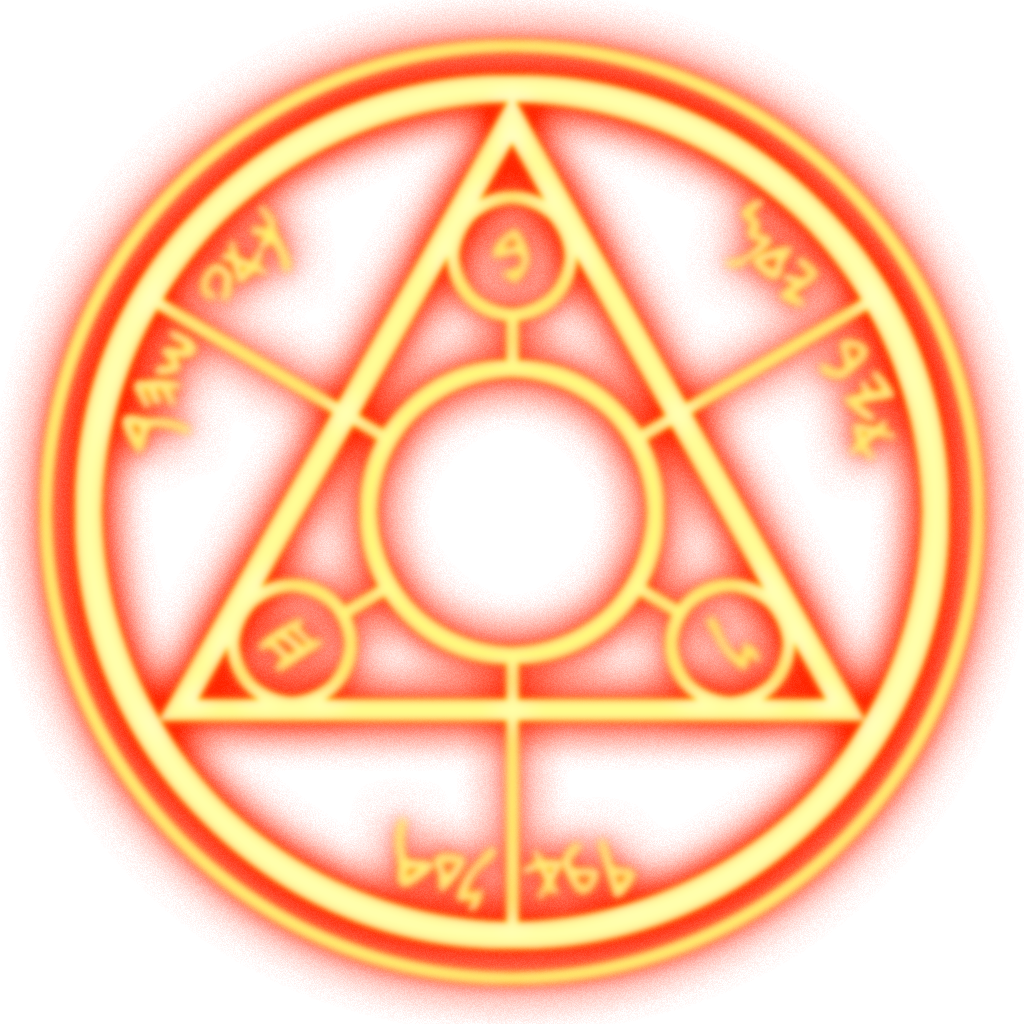
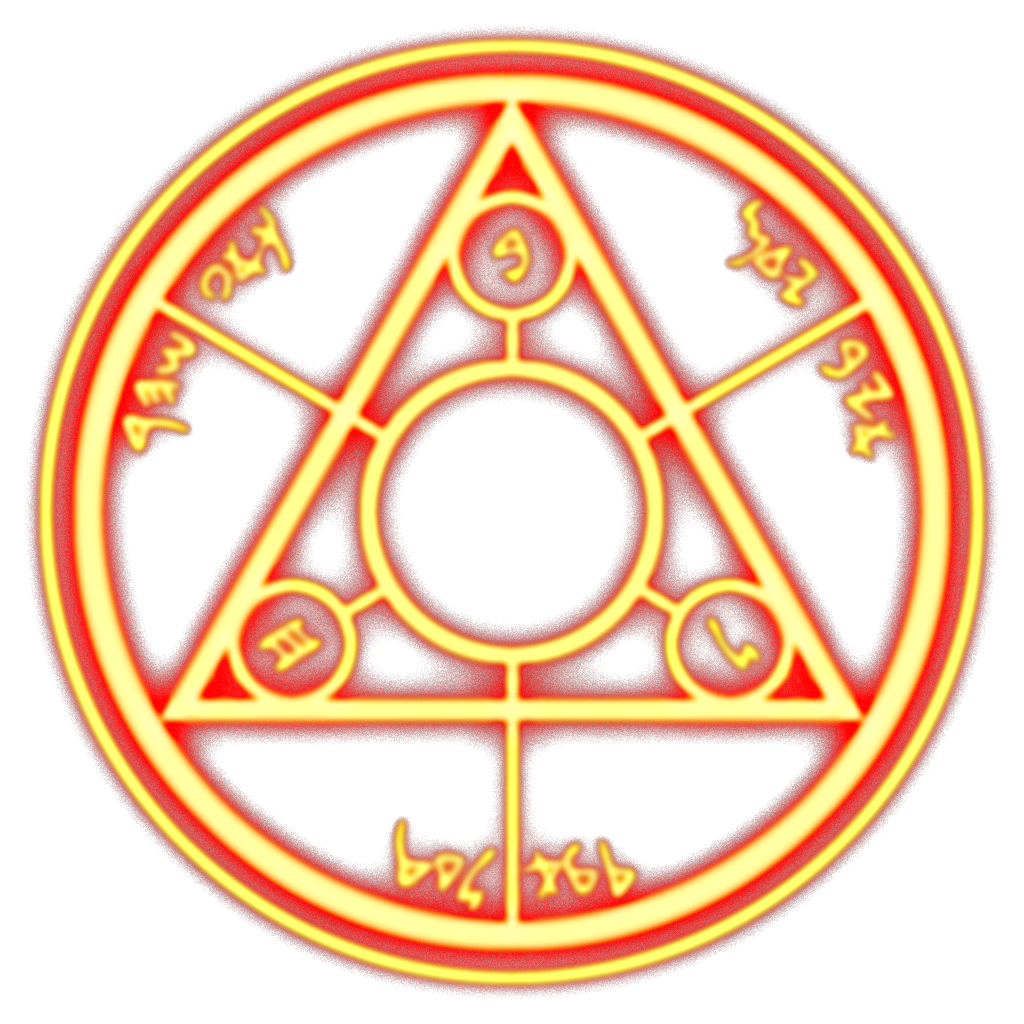
Push MD2 models & webstart file

diff --git a/src/main/java/sandbox/SpellcastDrawPanel.java b/src/main/java/sandbox/SpellcastDrawPanel.java
@@ -72,7 +72,7 @@ public class SpellcastDrawPanel extends GamePanel {
                 Color.ORANGE.getGreen() / 255f,
                 Color.ORANGE.getBlue() / 255f,
                 0.5f));
-        graphics.setStroke(new WobbleStroke(8f, 4));
+        graphics.setStroke(new WobbleStroke(8, 6));
         graphics.setRenderingHint(RenderingHints.KEY_ANTIALIASING, RenderingHints.VALUE_ANTIALIAS_ON);
 
     }

diff --git a/src/main/java/sandbox/Sandbox.java b/src/main/java/sandbox/Sandbox.java
@@ -192,11 +192,6 @@ public class Sandbox {
             }
             screenOverlay.doMouseEvent();
         }
-        if (Keyboard.isKeyDown(Keyboard.KEY_O)) {
-            glPolygonMode(GL_FRONT_AND_BACK, GL_LINE);
-        } else {
-            glPolygonMode(GL_FRONT_AND_BACK, GL_FILL);
-        }
 
         while (Keyboard.next()) {
             int key = Keyboard.getEventKey();

diff --git a/src/main/java/sandbox/MagicCircleActor.java b/src/main/java/sandbox/MagicCircleActor.java
@@ -25,7 +25,7 @@ import tk.ivybits.engine.scene.node.impl.GeometryActor;
 import java.io.IOException;
 
 public class MagicCircleActor extends GeometryActor {
-    private float size = 1;
+    private float size = 2;
     private int mod = 1;
 
     public MagicCircleActor() throws IOException {
